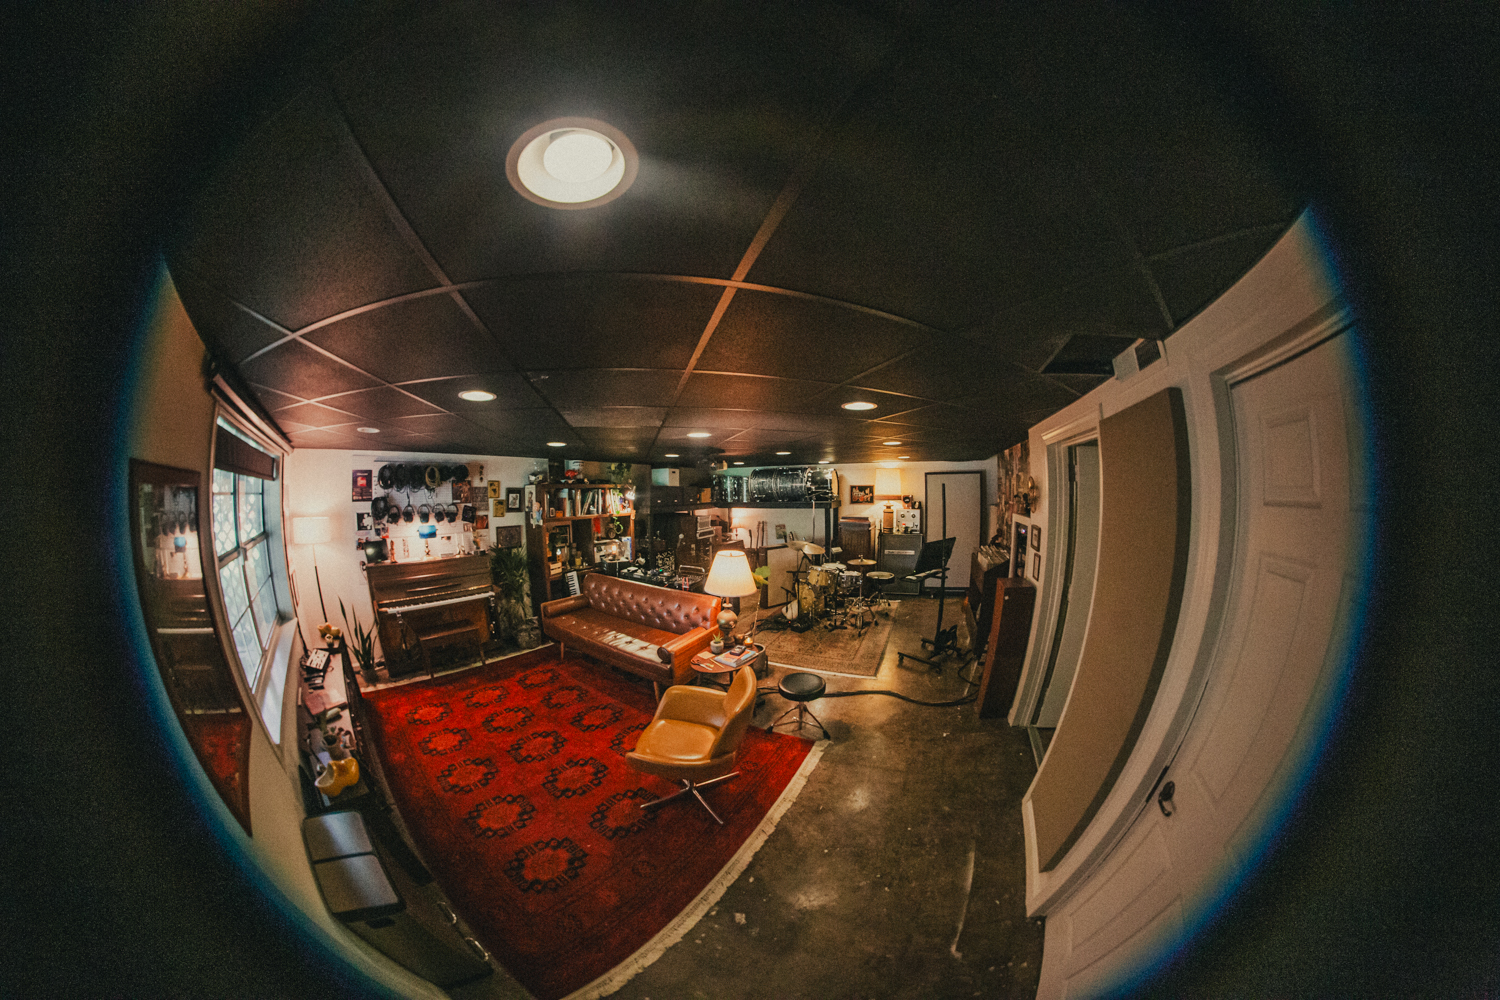
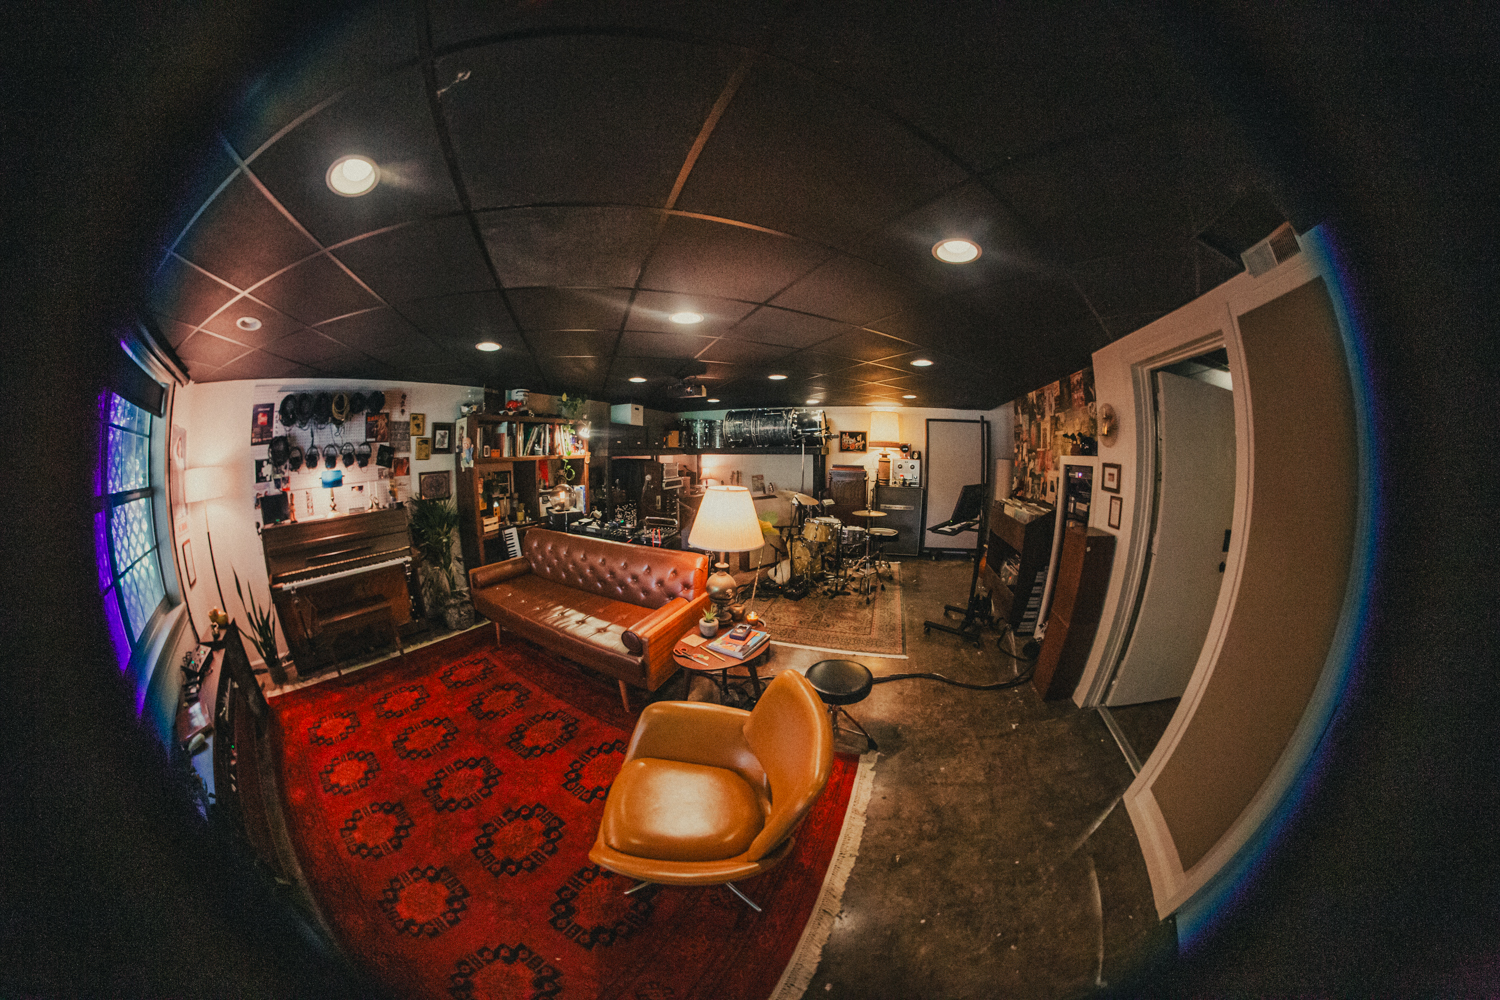
Removed a studio picture and added scanned arrows

diff --git a/scripts/index.js b/scripts/index.js
@@ -1,4 +1,5 @@
 // Constant Variables
+const numStudioImages = 7;
 const canvaBaseWidthPixel = 1366;
 const canvaBaseHeightPixel = 768;
 const canvaRatioPixel = 1366 / 768;
@@ -209,12 +210,10 @@ async function buttonSoundOnClick() {
 }
 
 function populateStudioImages() {
-  const NUM_IMAGES = 8;
-
   let currentIndex = 0;
 
   // Populate carousel dynamically
-  for (let i = 1; i <= NUM_IMAGES; i++) {
+  for (let i = 1; i <= numStudioImages; i++) {
     const img = document.createElement('img');
     img.src = `/images/studio/RRE${i}.jpg`;
     img.alt = `Image ${i}`;
@@ -227,12 +226,12 @@ function populateStudioImages() {
   }
   // Button events
   $studioForward.addEventListener('click', () => {
-    currentIndex = (currentIndex + 1) % NUM_IMAGES;
+    currentIndex = (currentIndex + 1) % numStudioImages;
     updateCarousel();
   });
 
   $studioBack.addEventListener('click', () => {
-    currentIndex = (currentIndex - 1 + NUM_IMAGES) % NUM_IMAGES;
+    currentIndex = (currentIndex - 1 + numStudioImages) % numStudioImages;
     updateCarousel();
   });
 }

diff --git a/index.html b/index.html
@@ -124,7 +124,7 @@
       </div>
       <br>
       <div class='store'>
-        <button id='studio-button'><img src='/images/store.png' alt='STORE' class='img-hover-purple-1-5'></button>
+        <button id='studio-button'><img src='/images/studio.png' alt='STUDIO' class='img-hover-purple-1-5'></button>
       </div>
       <div class='privacy-policy'>
         <button><img src='/images/privacy-policy.png' alt='PRIVACY POLICY' class='img-hover-purple-1-5'></button>

diff --git a/styles/index.css b/styles/index.css
@@ -668,14 +668,17 @@ main > div #content a.contact:hover {
 }
 
 #studio-x img {
-  filter: invert(100%);
   width: 2rem;
   object-fit: cover;
+}
 
+#studio-x img, #studio-div .carousel button img {
+  filter: invert(100%);
+  
   transition: filter 250ms;
 }
 
-#studio-x img:hover {
+#studio-x img:hover, #studio-div .carousel button img:hover {
   filter: invert(80%);
 }
 
